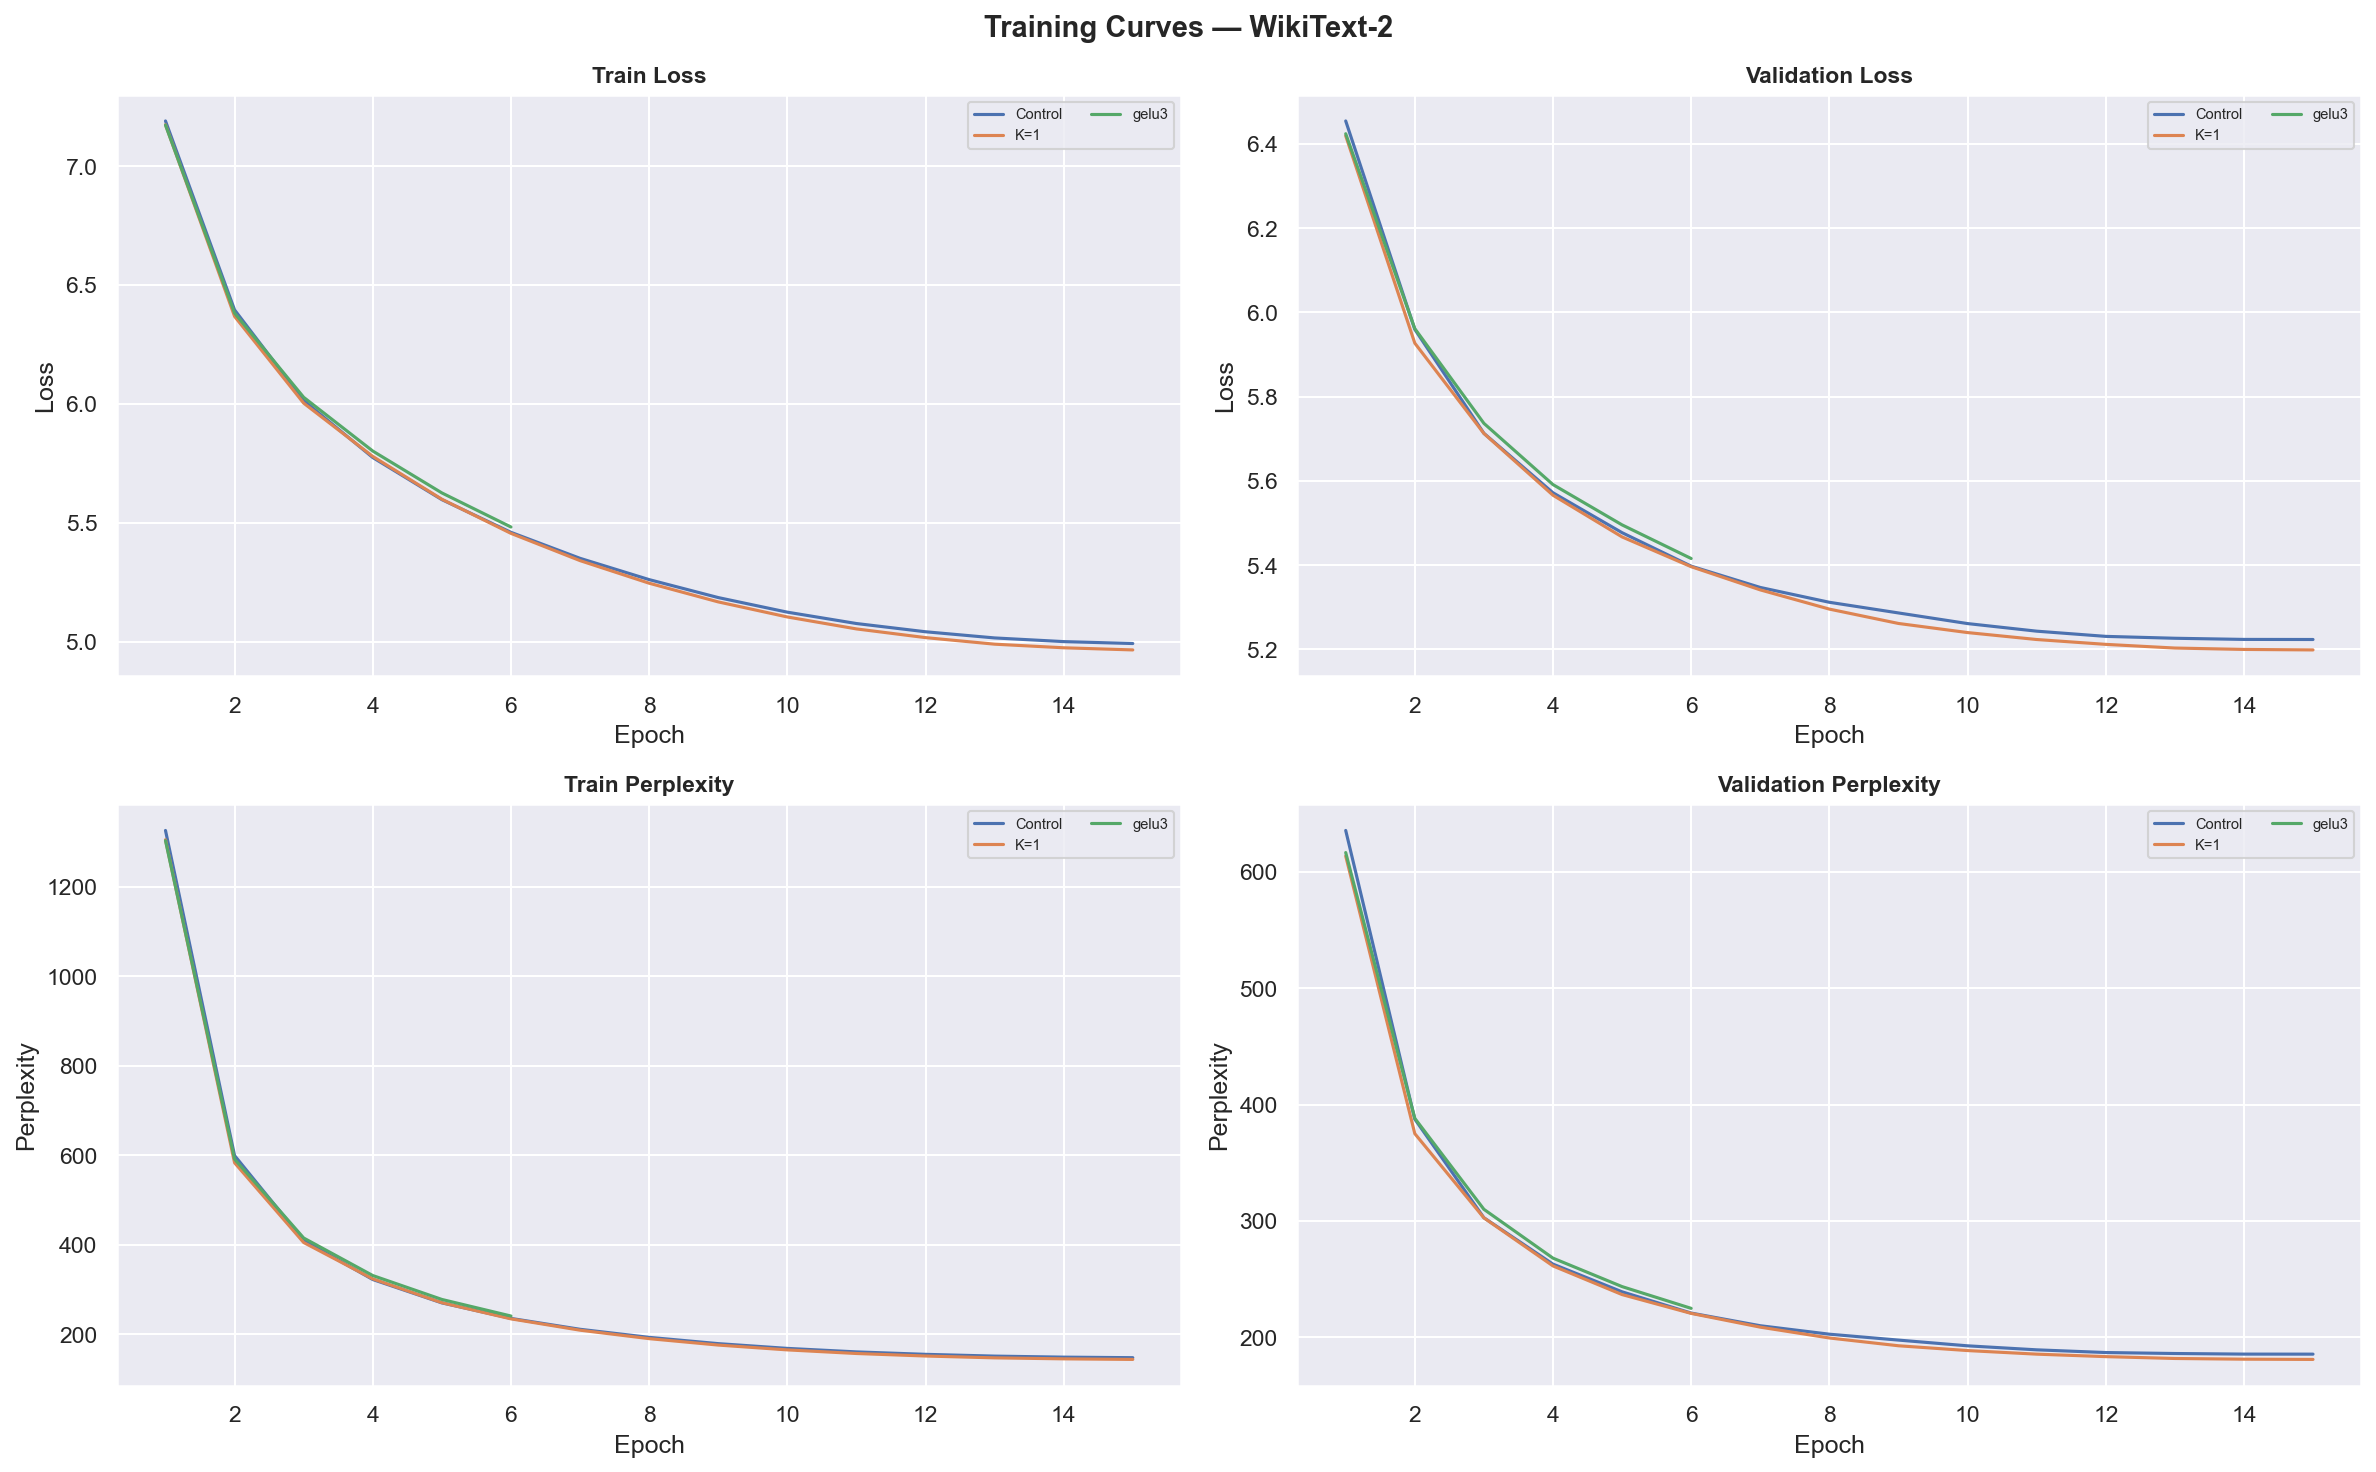
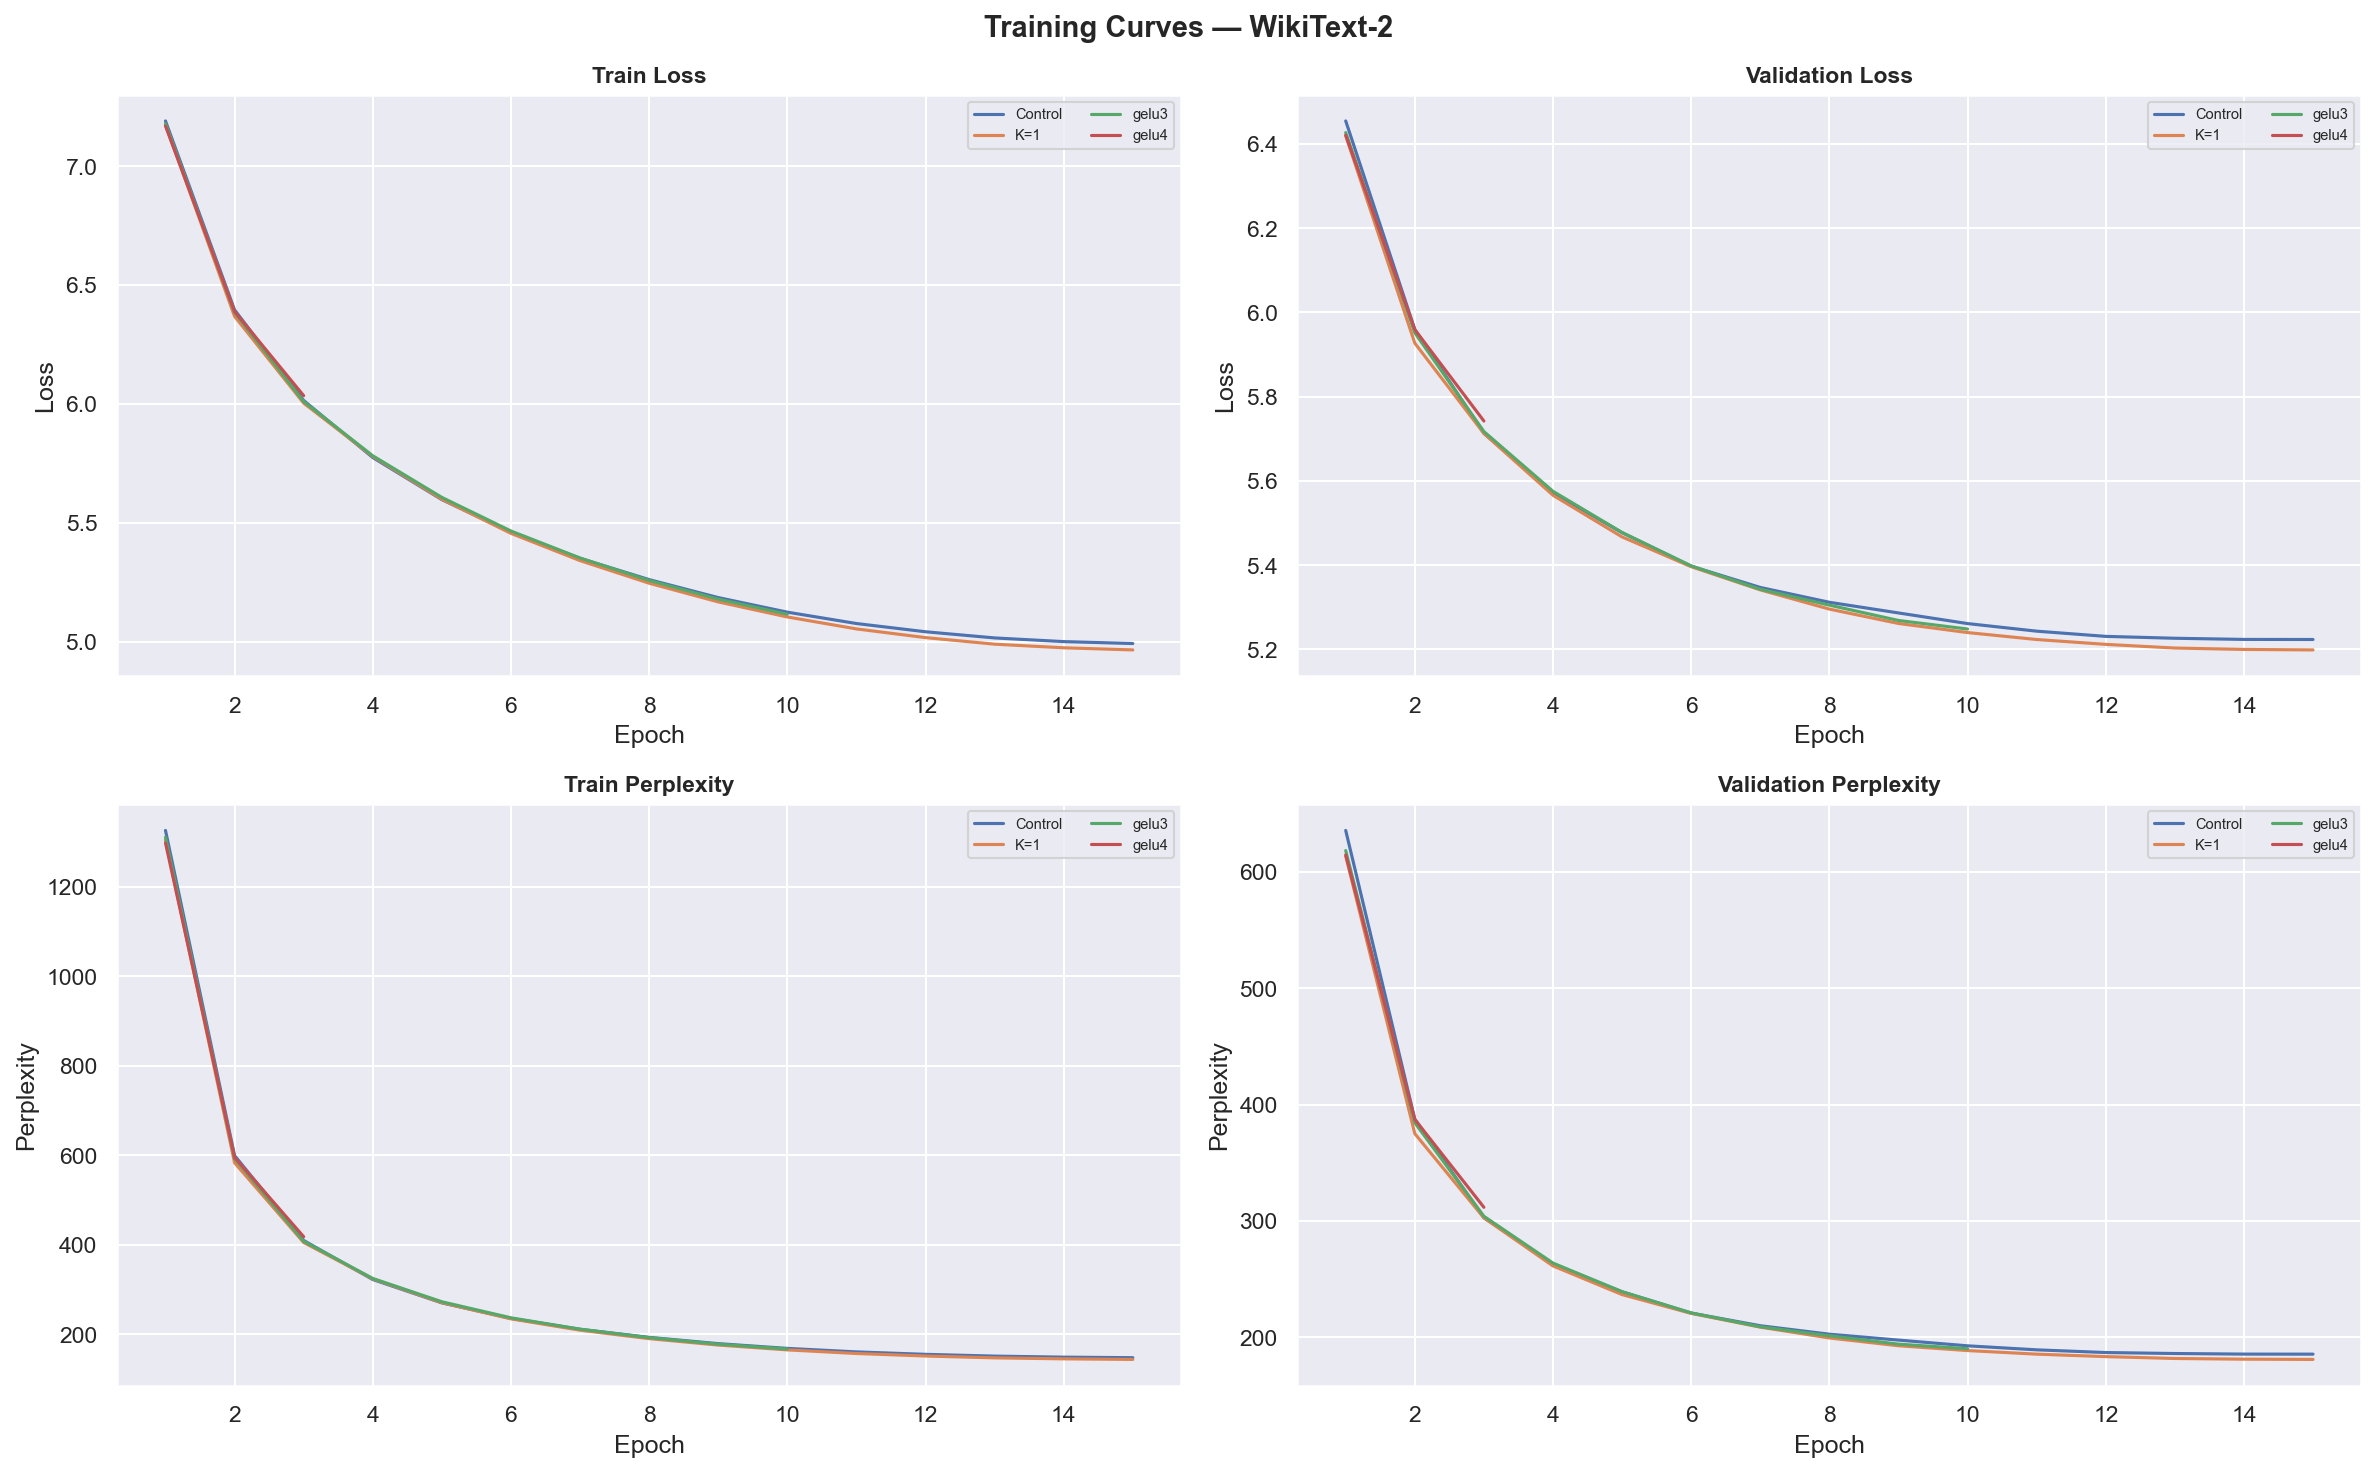
memory simplify

diff --git a/Research/Memory_Neurons/train.py b/Research/Memory_Neurons/train.py
@@ -309,164 +309,6 @@ class GELU2(nn.Module):
 
         return self._gelu(blended)
 
-
-class GELU3(nn.Module):
-    """Per-neuron sign-similarity habituation GELU.
-
-    Maintains a single EMA prototype vector (D,). For each activation
-    dimension k the suppression is driven by sign agreement between the
-    current activation and the stored prototype component:
-
-        similarity[b,t,k] = sign(x[b,t,k] * prototype[k])   # +1 same sign, −1 opposite
-        scale[b,t,k]      = 1 − alpha[k] * similarity[b,t,k]
-        y[b,t,k]          = GELU(x[b,t,k] * scale[b,t,k])
-
-    After the scaled forward pass the prototype is updated:
-        prototype = d * prototype + (1 − d) * mean(x over B, T)
-
-    Learnable parameters:
-        log_alpha[D] → alpha[k] ∈ (0,1) : per-neuron suppression strength
-        logit_decay  → d       ∈ (0,1) : EMA decay (scalar)
-    """
-
-    def __init__(self, ema_decay: float = None):
-        super().__init__()
-        init_decay         = ema_decay if ema_decay is not None else Config.GELU2_EMA_DECAY
-        self._prototype: torch.Tensor = None
-        self._ready        = False
-        self.log_alpha: nn.Parameter = None   # (D,), registered lazily on first forward
-        self.logit_decay   = nn.Parameter(
-            torch.tensor(math.log(init_decay / (1.0 - init_decay)))
-        )
-
-    def reset_state(self):
-        self._prototype = None
-        self._ready = False
-
-    @staticmethod
-    def _gelu(x: torch.Tensor) -> torch.Tensor:
-        return (
-            0.5 * x
-            * (1.0 + torch.tanh(
-                math.sqrt(2.0 / math.pi)
-                * (x + 0.044715 * x.pow(3))
-            ))
-        )
-
-    def _init_alpha(self, D: int, device: torch.device, dtype: torch.dtype):
-        """Lazily create per-neuron alpha when D is first known."""
-        if self.log_alpha is None:
-            init_logit = math.log(Config.GELU2_BLEND / (1.0 - Config.GELU2_BLEND))
-            self.log_alpha = nn.Parameter(
-                torch.full((D,), init_logit, device=device, dtype=dtype)
-            )
-
-    def forward(self, x: torch.Tensor) -> torch.Tensor:
-        # x: (B, T, D)
-        D = x.shape[-1]
-        self._init_alpha(D, x.device, x.dtype)
-
-        d_val = torch.sigmoid(self.logit_decay).detach().item()   # plain float for EMA
-        alpha = torch.sigmoid(self.log_alpha)                     # (D,)
-
-        x_mean = x.detach().flatten(0, -2).mean(0)               # (D,)
-
-        if not self._ready:
-            self._prototype = x_mean.clone()
-            self._ready     = True
-            return self._gelu(x)
-
-        # similarity = sign(x[b,t,k] * prototype[k])  →  +1 same sign, −1 opposite
-        sim   = torch.sign(x.detach() * self._prototype)         # (B, T, D)
-        scale = 1.0 - alpha * sim                                # (B, T, D)
-        y     = self._gelu(x * scale)
-
-        # EMA prototype update
-        self._prototype = d_val * self._prototype + (1.0 - d_val) * x_mean
-
-        return y
-
-
-class GELU4(nn.Module):
-    """Fully per-neuron habituation GELU (GELU3 with per-neuron EMA decay).
-
-    Extends GELU3 by making the EMA decay d also a per-neuron learnable
-    parameter d[D], so each dimension independently controls both its
-    suppression strength and its memory length:
-
-        similarity[b,t,k] = sign(x[b,t,k] * prototype[k])   # +1 same sign, -1 opposite
-        scale[b,t,k]      = 1 - alpha[k] * similarity[b,t,k]
-        y[b,t,k]          = GELU(x[b,t,k] * scale[b,t,k])
-
-    Prototype updated per-neuron:
-        prototype[k] = d[k] * prototype[k] + (1 - d[k]) * batch_mean[k]
-
-    Learnable parameters (both lazy, shape (D,)):
-        log_alpha[D] -> alpha[k] in (0,1) : per-neuron suppression strength
-        logit_decay[D] -> d[k]  in (0,1) : per-neuron EMA decay
-    """
-
-    def __init__(self, ema_decay: float = None):
-        super().__init__()
-        self._init_decay   = ema_decay if ema_decay is not None else Config.GELU2_EMA_DECAY
-        self._prototype: torch.Tensor = None
-        self._ready        = False
-        self.log_alpha:    nn.Parameter = None   # (D,), lazy
-        self.logit_decay:  nn.Parameter = None   # (D,), lazy
-
-    def reset_state(self):
-        self._prototype = None
-        self._ready = False
-
-    @staticmethod
-    def _gelu(x: torch.Tensor) -> torch.Tensor:
-        return (
-            0.5 * x
-            * (1.0 + torch.tanh(
-                math.sqrt(2.0 / math.pi)
-                * (x + 0.044715 * x.pow(3))
-            ))
-        )
-
-    def _init_params(self, D: int, device: torch.device, dtype: torch.dtype):
-        """Lazily register per-neuron parameters once D is known."""
-        if self.log_alpha is None:
-            alpha_logit = math.log(Config.GELU2_BLEND / (1.0 - Config.GELU2_BLEND))
-            self.log_alpha = nn.Parameter(
-                torch.full((D,), alpha_logit, device=device, dtype=dtype)
-            )
-        if self.logit_decay is None:
-            d_logit = math.log(self._init_decay / (1.0 - self._init_decay))
-            self.logit_decay = nn.Parameter(
-                torch.full((D,), d_logit, device=device, dtype=dtype)
-            )
-
-    def forward(self, x: torch.Tensor) -> torch.Tensor:
-        # x: (B, T, D)
-        D = x.shape[-1]
-        self._init_params(D, x.device, x.dtype)
-
-        alpha = torch.sigmoid(self.log_alpha)              # (D,)
-        d     = torch.sigmoid(self.logit_decay)            # (D,)  in-graph
-        d_val = d.detach()                                 # (D,)  for EMA update
-
-        x_mean = x.detach().flatten(0, -2).mean(0)        # (D,)
-
-        if not self._ready:
-            self._prototype = x_mean.clone()
-            self._ready     = True
-            return self._gelu(x)
-
-        # similarity = sign(x[b,t,k] * prototype[k])  ->  +1 same sign, -1 opposite
-        sim   = torch.sign(x.detach() * self._prototype)  # (B, T, D)
-        scale = 1.0 - alpha * sim                         # (B, T, D)
-        y     = self._gelu(x * scale)
-
-        # Per-neuron EMA prototype update
-        self._prototype = d_val * self._prototype + (1.0 - d_val) * x_mean
-
-        return y
-
 class PositionalEncoding(nn.Module):
     def __init__(self, d_model, dropout, max_len=5000):
         super().__init__()
@@ -558,9 +400,7 @@ def run_epoch(model, loader, criterion, optimizer, device, cfg, train=True):
 
 ALL_EXPERIMENTS = [
     ("control",      GELU),
-    ("gelu2_k1",     GELU2),
-    ("gelu3",        GELU3),
-    ("gelu4",        GELU4),
+    ("gelu2",     GELU2),
 ]
 
 

diff --git a/Research/Memory_Neurons/plot.py b/Research/Memory_Neurons/plot.py
@@ -109,9 +109,10 @@ test_data = pd.concat(test_records, ignore_index=True)[
 
 control_ppl  = test_data.loc[test_data["experiment"] == "control", "test_ppl"].values[0]
 control_loss = test_data.loc[test_data["experiment"] == "control", "test_loss"].values[0]
-test_data["ppl_delta"]   = test_data["test_ppl"]  - control_ppl
-test_data["loss_delta"]  = test_data["test_loss"] - control_loss
-test_data["ppl_improv%"] = -100 * test_data["ppl_delta"] / control_ppl
+test_data["ppl_delta"]    = test_data["test_ppl"]  - control_ppl
+test_data["loss_delta"]   = test_data["test_loss"] - control_loss
+test_data["ppl_improv%"]  = -100 * test_data["ppl_delta"]  / control_ppl
+test_data["loss_improv%"] = -100 * test_data["loss_delta"] / control_loss
 
 # ── Save test results ─────────────────────────────────────────────────
 test_csv = os.path.join(PLOTS_DIR, "test_results.csv")
@@ -173,25 +174,31 @@ for lbl in plot_df["label"]:
 fig, axes = plt.subplots(1, 2, figsize=(14, max(5, 0.45 * n + 2)))
 fig.suptitle("Test Results", fontsize=13, fontweight="bold")
 
-for ax, col, xlabel, title in [
-    (axes[0], "test_loss", "Loss",       "Test Loss"),
-    (axes[1], "test_ppl",  "Perplexity", "Test Perplexity"),
+for ax, col, pct_col, xlabel, title in [
+    (axes[0], "test_loss", "loss_improv%", "Loss",       "Test Loss"),
+    (axes[1], "test_ppl",  "ppl_improv%",  "Perplexity", "Test Perplexity"),
 ]:
     bars = ax.barh(plot_df["label"], plot_df[col], color=colors, edgecolor="white")
     ax.set_title(title, fontsize=11, fontweight="bold")
     ax.set_xlabel(xlabel)
     ax.invert_yaxis()
     span = plot_df[col].max() - plot_df[col].min() + 1e-9
-    for bar, val in zip(bars, plot_df[col]):
+    for bar, (_, row) in zip(bars, plot_df.iterrows()):
+        val = row[col]
+        if row["label"] == "Control":
+            label_str = f"{val:.3f}"
+        else:
+            pct = row[pct_col]
+            label_str = f"{val:.3f}  ({pct:+.1f}%)"
         ax.text(val + 0.015 * span, bar.get_y() + bar.get_height() / 2,
-                f"{val:.3f}", va="center", ha="left", fontsize=8)
+                label_str, va="center", ha="left", fontsize=8)
     ctrl_val = plot_df.loc[plot_df["label"] == "Control", col].values
     if len(ctrl_val):
         ax.axvline(ctrl_val[0], color="red", linewidth=1.2, linestyle="--",
                    alpha=0.7, label="Control")
         ax.legend(fontsize=8)
     ax.set_xlim(plot_df[col].min() - 0.05 * span,
-                plot_df[col].max() + 0.20 * span)
+                plot_df[col].max() + 0.32 * span)
 
 legend_handles = [
     Patch(color="#888888",       label="Control"),
